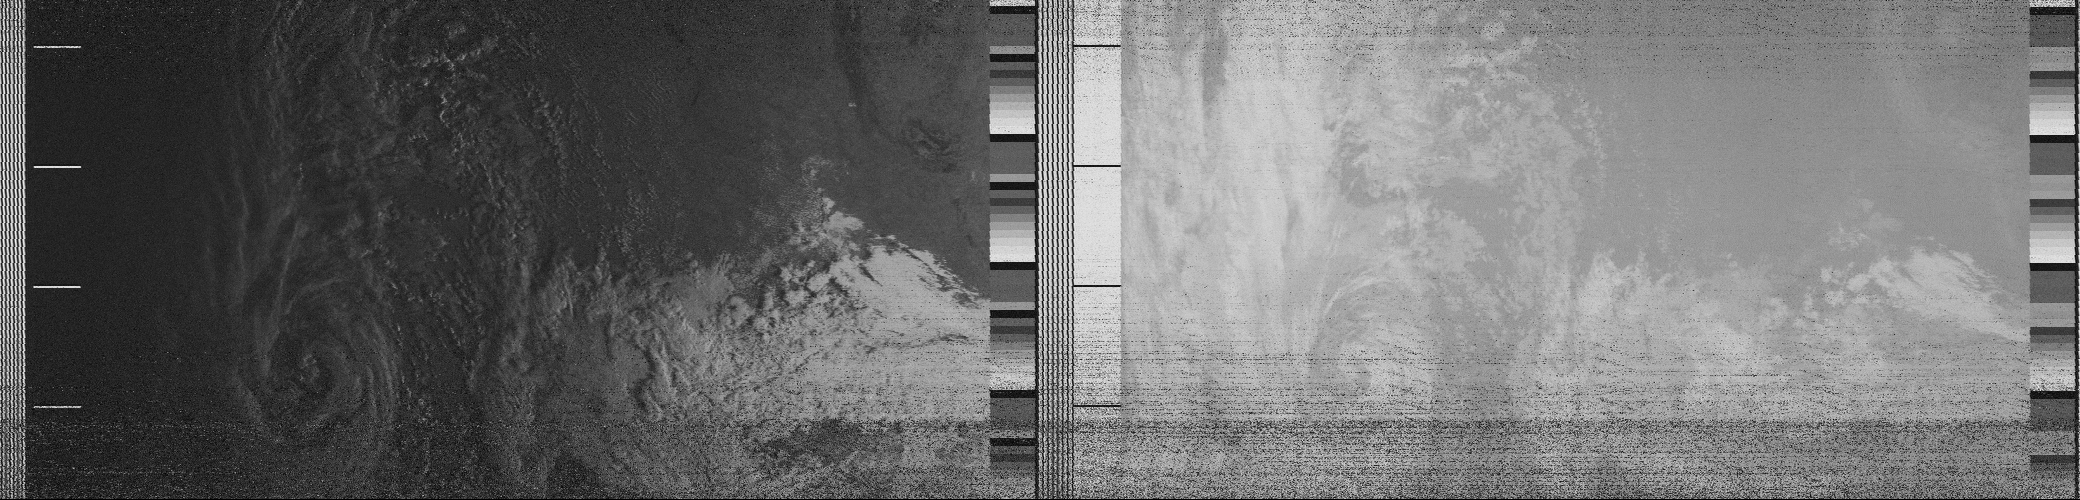
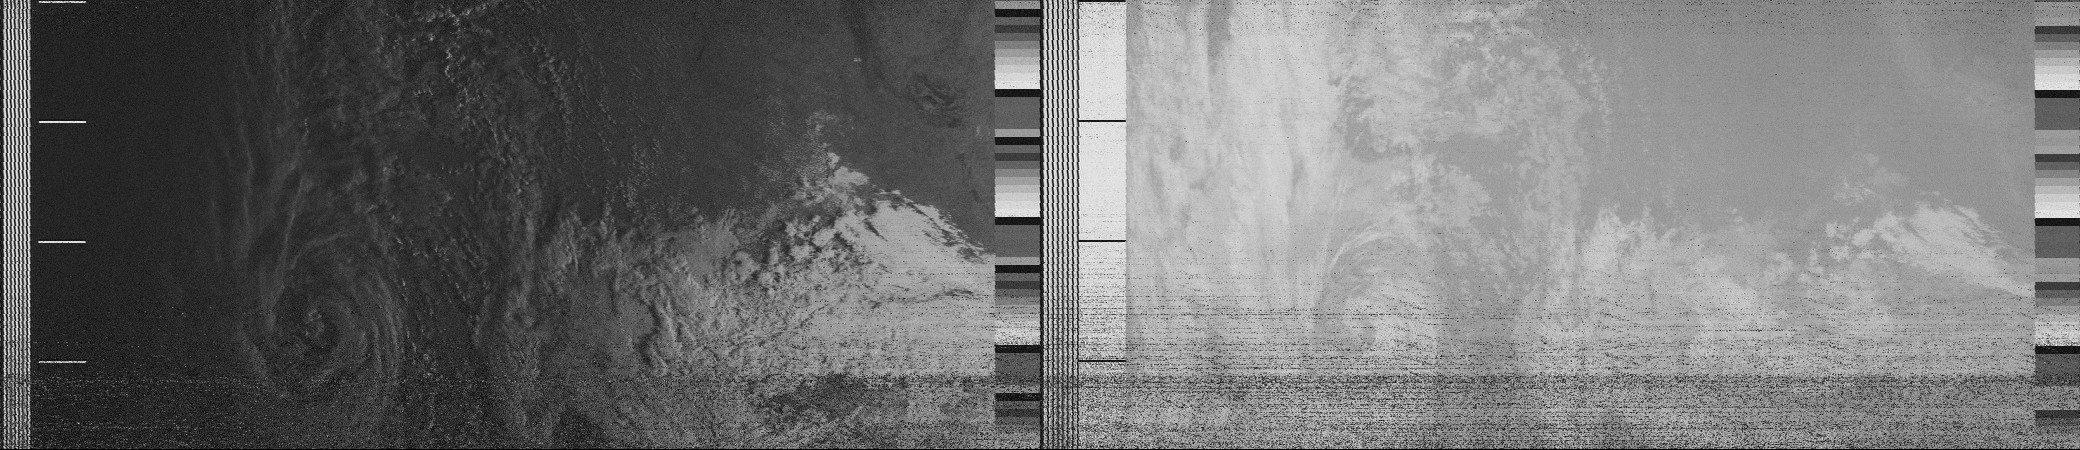
Normalization added

diff --git a/get_image.m b/get_image.m
@@ -1,4 +1,4 @@
-NUMBER_OF_LINES = 600;
+NUMBER_OF_LINES = 450;
 STARTING_LINE = 300;
 %use raw_image to measure this values approximately
 FIRST_LINE_CORRECTION = 0;
@@ -30,9 +30,27 @@ while(i < n && str < NUMBER_OF_LINES)
     str = str + 1;
     i = i + 2077;
 end
-%smoothdata(b, 2);
+
+smoothdata(b, 2);
 l1 = b(:, 1:1040);
 l2 = b(:, 1041:2080);
 b(:, 1041:2080) = l1;
 b(:, 1:1040) = l2;
+al = max(b);
+bl = min(b);
+M = int64(max(al));
+m = int64(min(bl));
+b = int64(b);
+if (m ~= 0)
+    b = b - m;
+end
+if(M ~= 255)
+    b = b * 255;
+    b = b / M;
+end
+b = uint8(b);
 imwrite(b, "final_image.png");
+al = max(b);
+bl = min(b);
+M = int64(max(al))
+m = int64(min(bl))
